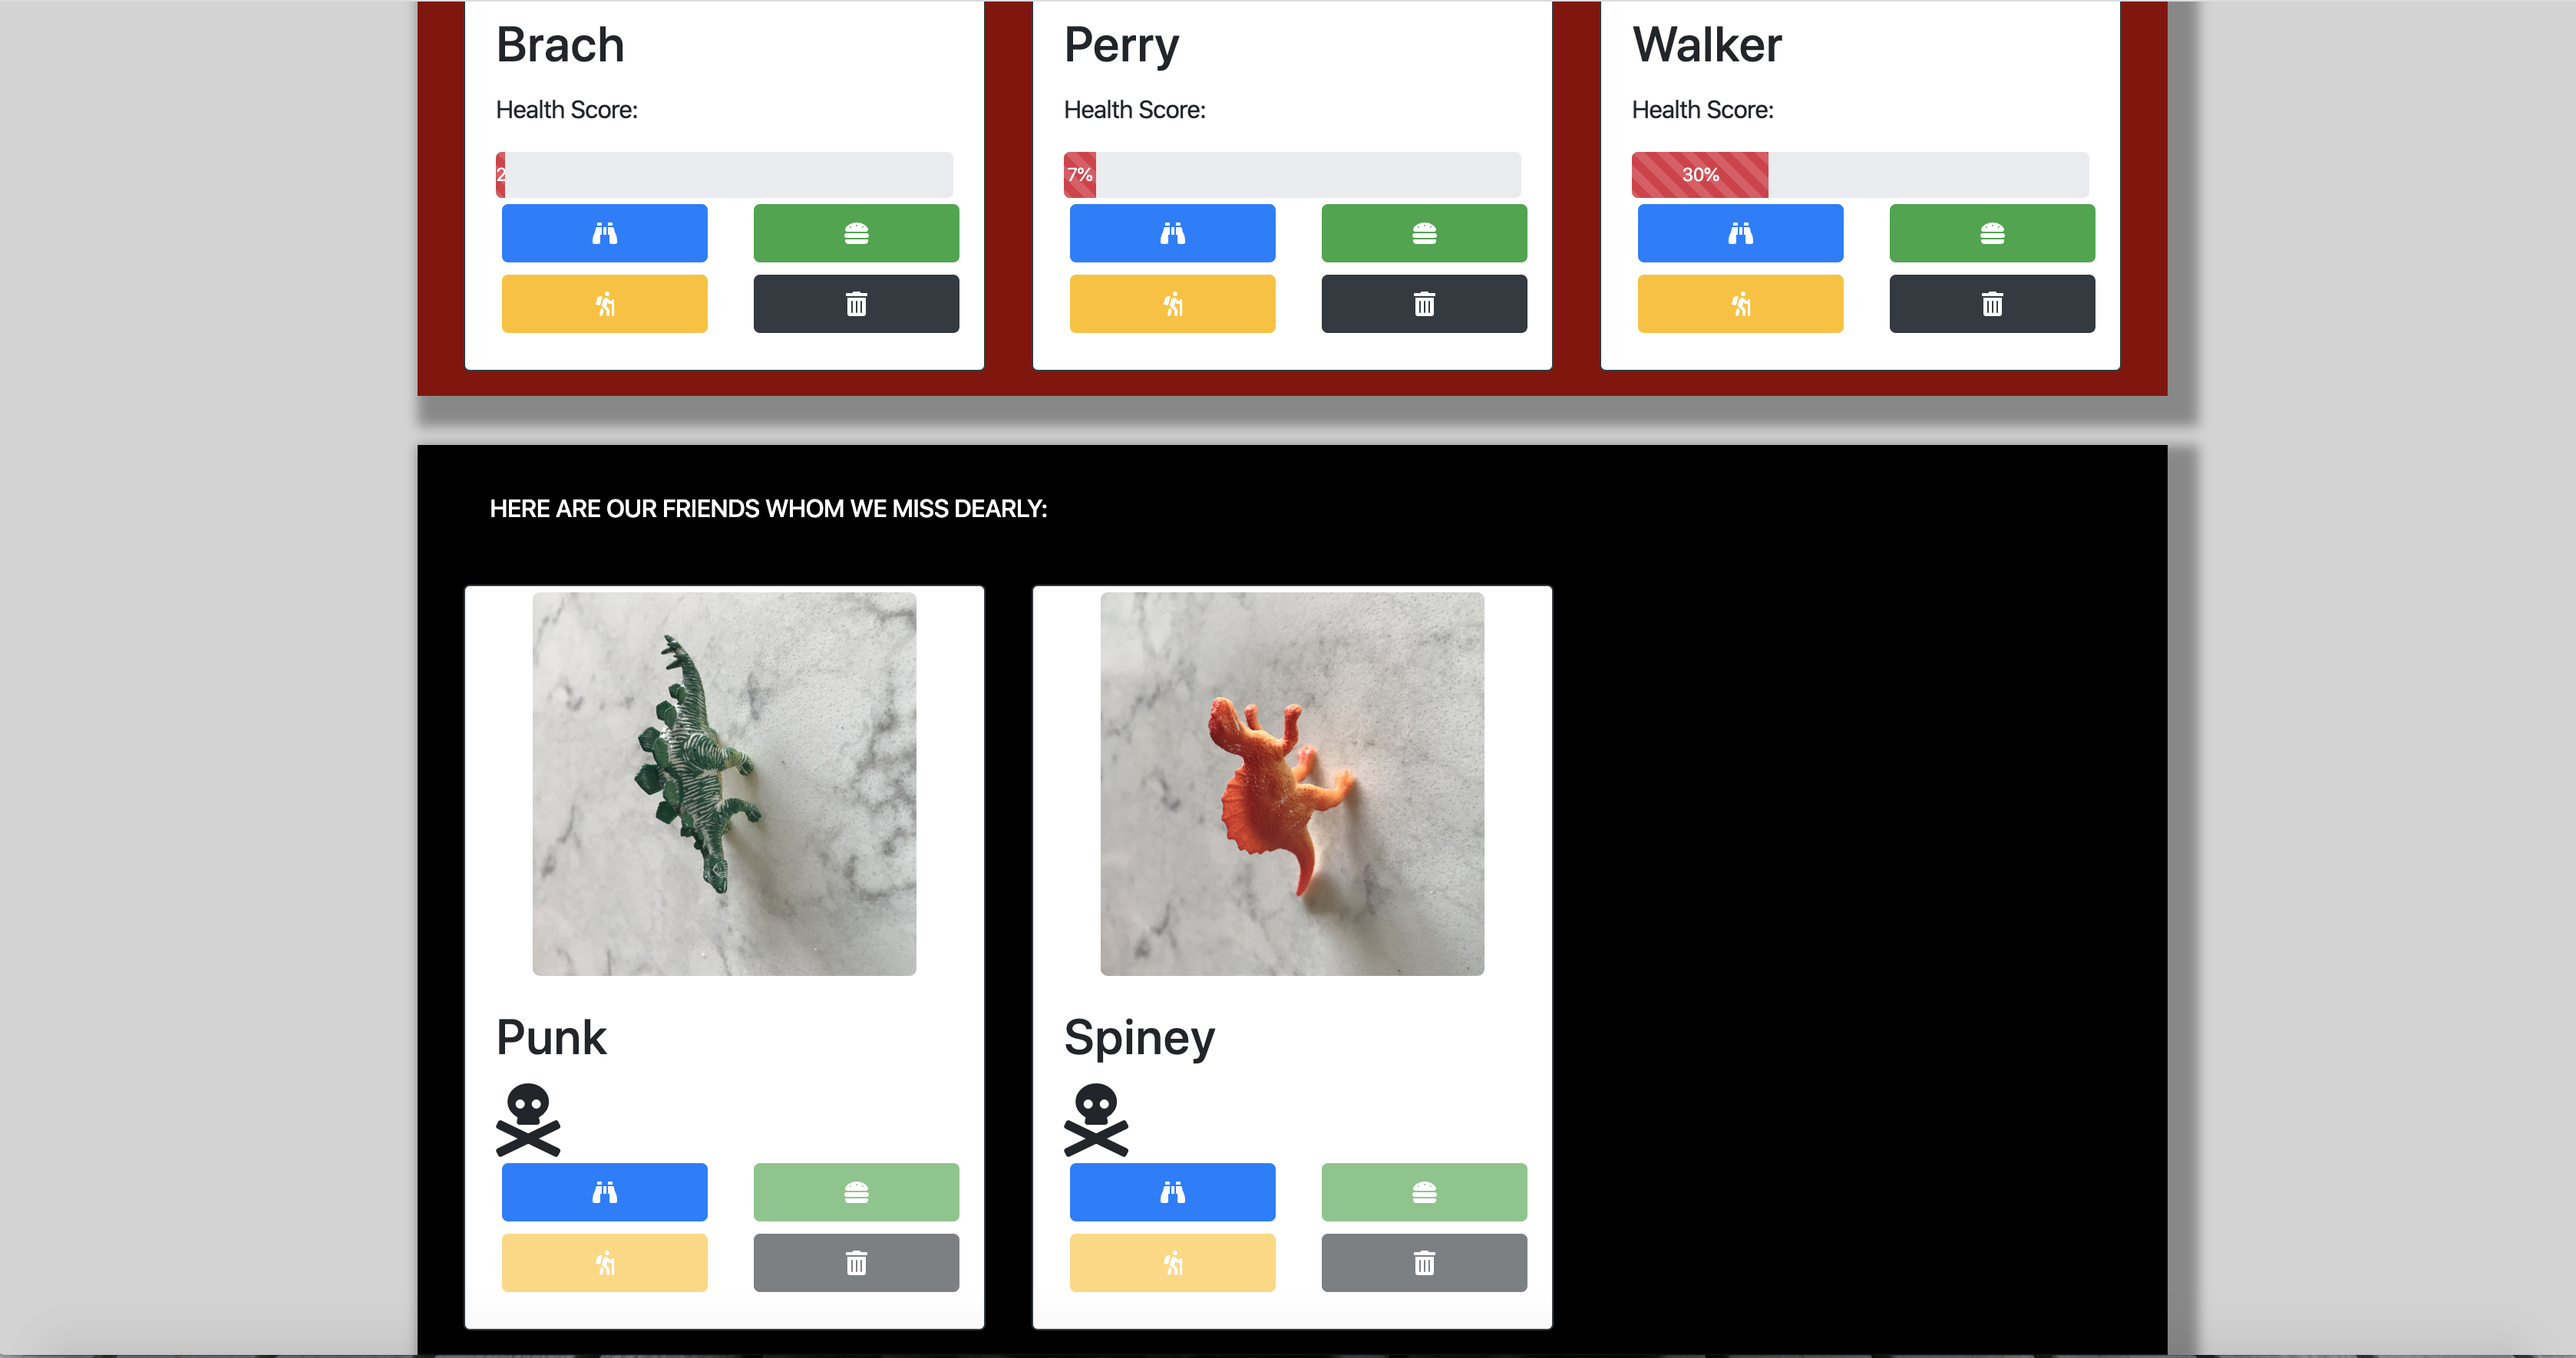
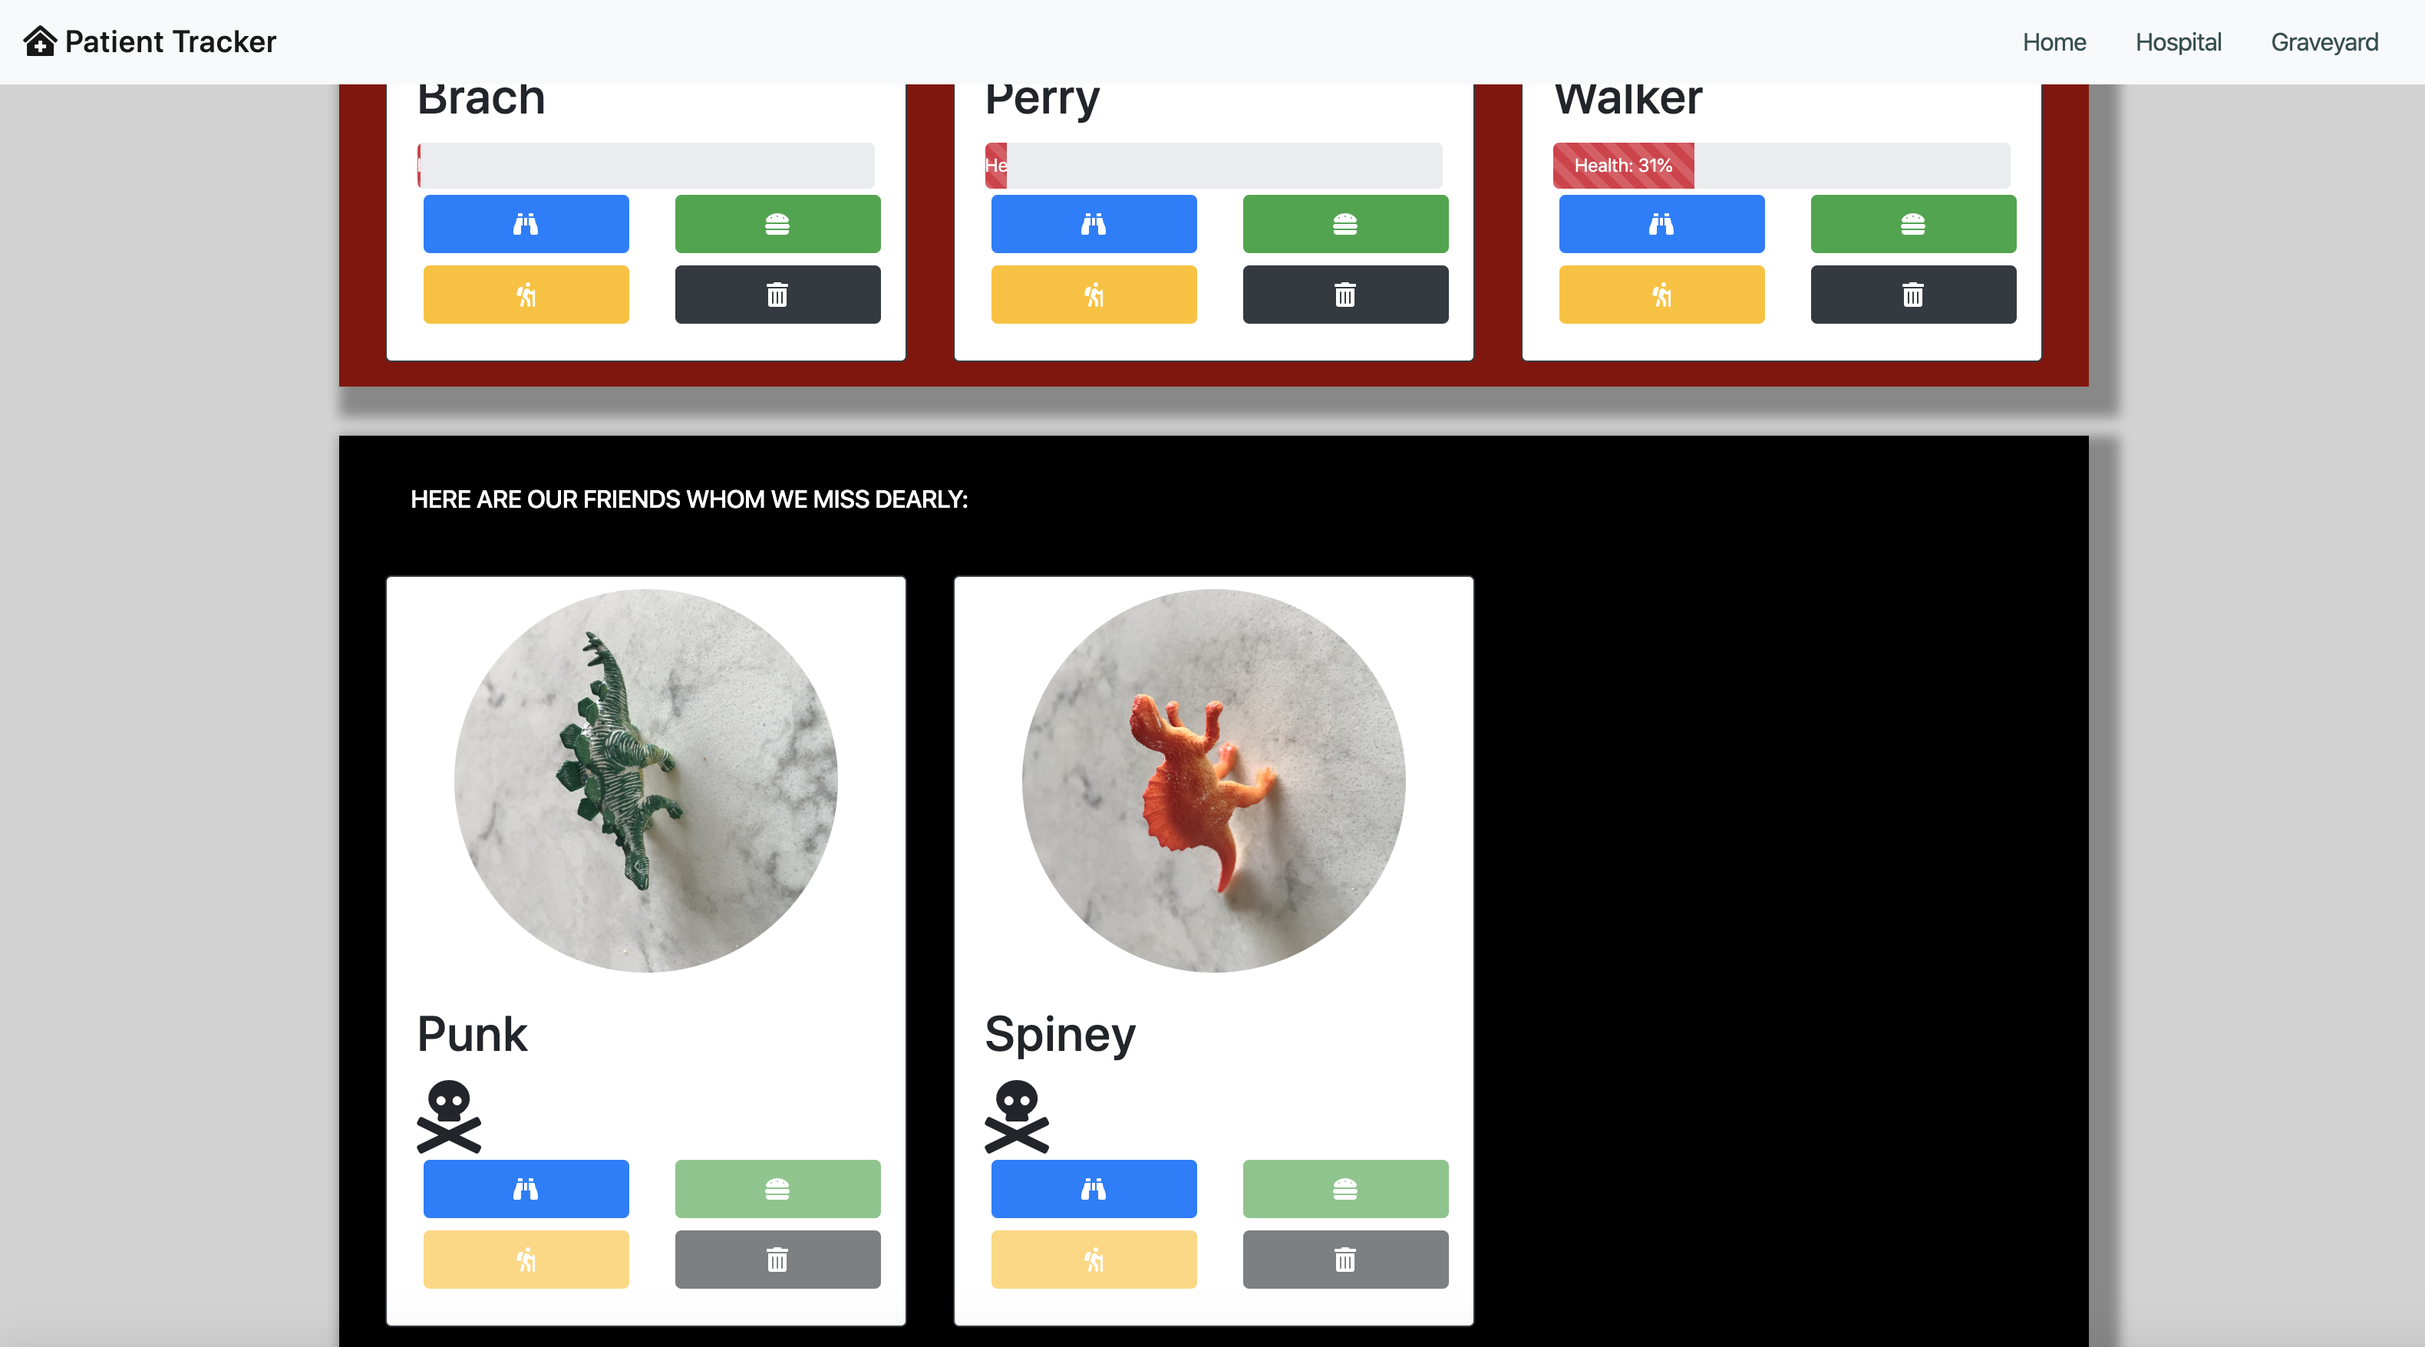
minor styling updates

Changed region(s): [[0.0, 0.0, 1.0, 1.0], [0.4652, 0.492, 0.5272, 0.6765]]

diff --git a/main.js b/main.js
@@ -248,7 +248,6 @@ const viewSingleDino = (e) => {
     domString +=            `<p>Age: ${selectedDino.age}</p>`;
     domString +=            `<p>Type: ${selectedDino.type}</p>`;
     domString +=            `<p>Owner: ${selectedDino.owner}</p>`;
-    domString +=            `<p>Health Score:</p>`;
     domString +=            printProgress(selectedDino, selectedDino.health < 1 ? 'graveyard' : 'single-view');
     domString +=        '</div>';
     domString +=        '<div class="col-4">';
@@ -357,7 +356,7 @@ const printProgress = (dino, divId) => {
   let domString = '';
   if (divId !== 'graveyard') {
     domString += '<div class="progress" style="height: 30px;">';
-    domString += `<div class="progress-bar progress-bar-striped ${dino.health < 40 ? 'bg-danger' : 'bg-success'}" role="progressbar" style="width: ${dino.health}%" aria-valuenow="${dino.health}" aria-valuemin="0" aria-valuemax="100">${dino.health}%</div>`;
+    domString += `<div class="progress-bar progress-bar-striped ${dino.health < 40 ? 'bg-danger' : 'bg-success'}" role="progressbar" style="width: ${dino.health}%" aria-valuenow="${dino.health}" aria-valuemin="0" aria-valuemax="100">Health: ${dino.health}%</div>`;
     domString += '</div>';
   } else {
     domString += '<div><i class="fas fa-skull-crossbones fa-3x"></i></div>';
@@ -395,12 +394,9 @@ const printDinos = (dinoArray, divId) => {
     for (let i=0; i < dinoArray.length; i++) {
         domString += '<div class="col-4">';
         domString += `<div id="${dinoArray[i].id}" class="card border-dark mb-3">`;
-        domString += `<img class="card-img-top dino-photo vh-25% mx-auto mt-1 rounded-lg" style="width: 250px;" src="${dinoArray[i].image}" alt="${dinoArray[i].alt}">`;
+        domString += `<img class="card-img-top dino-photo vh-25% mx-auto mt-2 picture" style="width: 250px;" src="${dinoArray[i].image}" alt="${dinoArray[i].alt}">`;
         domString += '<div class="card-body">';
         domString += `<h2 class="card-title">${dinoArray[i].name}</h2>`;
-        if (divId !== 'graveyard') {
-          domString += `<p class="card-text">Health Score:</p>`;
-        }
         domString += printProgress(dinoArray[i], divId);
         domString += printButtons(divId);
         domString += '</div>';

diff --git a/index.html b/index.html
@@ -26,7 +26,7 @@
   </nav>
 
   <div class="col-10 offset-1 intro">
-    <h3>You are logged in to Rosie's Pet Dinosaur Veterinary Clinic, where we take good care of our friends' RAWRsome pets!</h3>
+    <h5>You are logged in to Rosie's Pet Dinosaur Veterinary Clinic. Have a RAWRsome day!</h5>
   </div>  
 
 <!-- To indent the whole section below, we wrap it in a div and give it a class of col-10 and offset-1: -->

diff --git a/main.css b/main.css
@@ -5,12 +5,15 @@ body {
 .intro {
     padding-top: 100px;
     padding-bottom: 20px;
-    font-style: italic;
 }
 
 .filter {
     padding-left: 5em;
     padding-top: 2em;
+}
+
+.picture {
+    border-radius: 50%;
 }
 
 .kennel {
